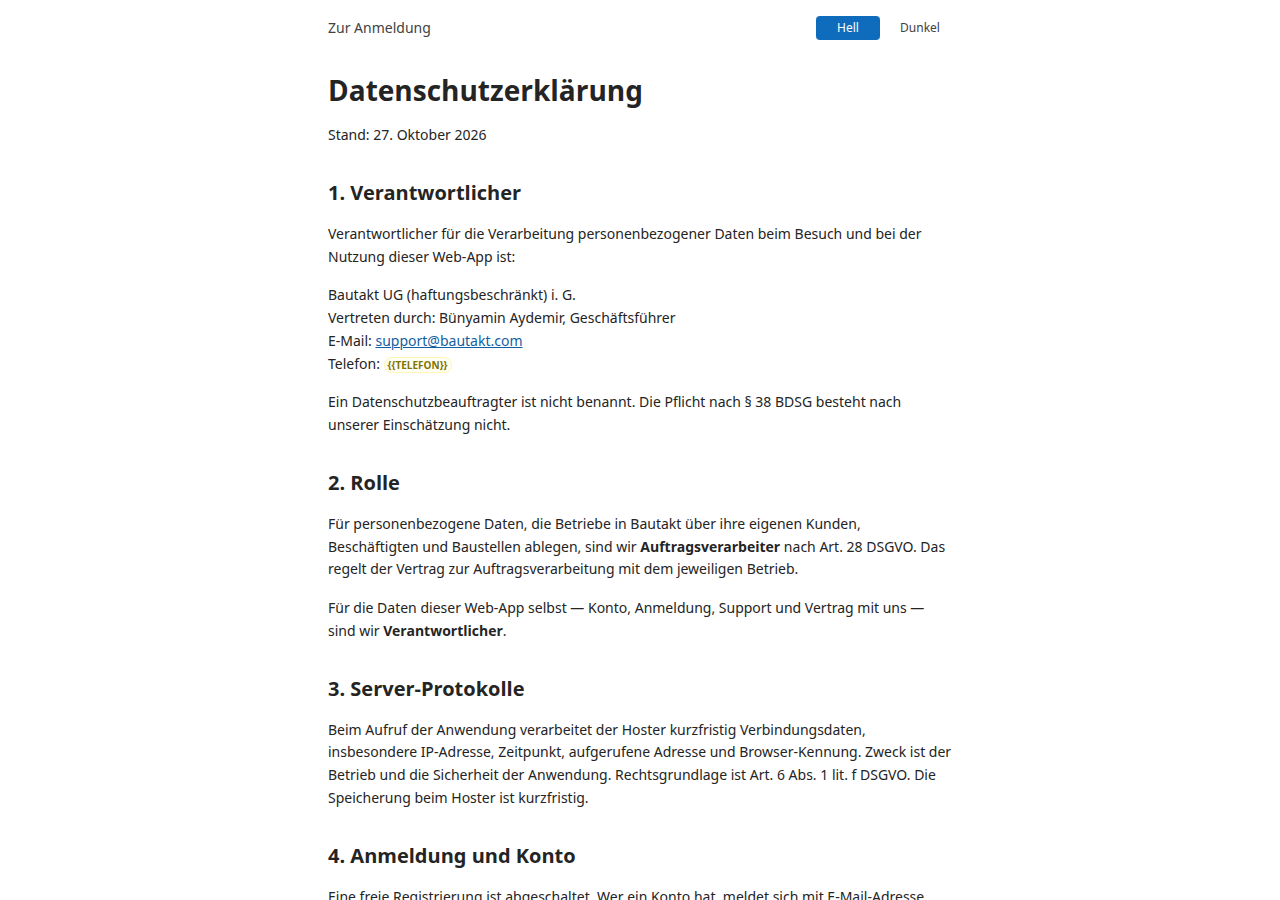
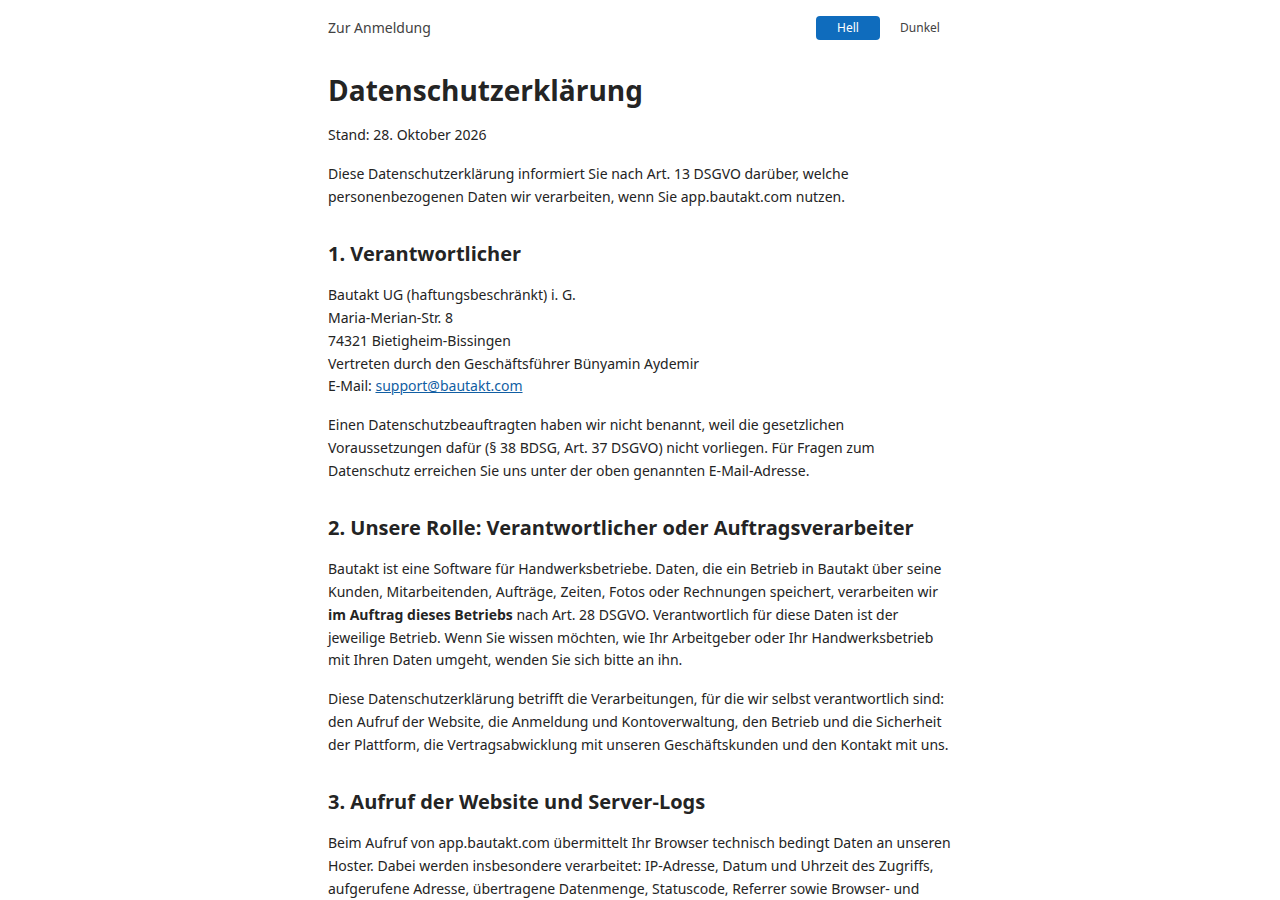
Rechtstexte wörtlich in die Web-App übernehmen
Die gelieferten Markdown-Dateien sind die Quelle. Der App-Inhalt ist
bytegleich, einfache Zeilenumbrüche bleiben sichtbar. {{TELEFON}} bleibt
der offene Platzhalter im Impressum.

Changed region(s): [[0.25, 0.3422, 0.75, 0.9022], [0.25, 0.9333, 0.75, 1.0], [0.25, 0.1867, 0.7188, 0.3111]]

diff --git a/apps/webapp/src/features/legal/legalRoutes.test.tsx b/apps/webapp/src/features/legal/legalRoutes.test.tsx
@@ -85,8 +85,9 @@ describe('Rechtsseiten ohne Sitzung', () => {
     expect(privacy).toContain('Datenschutzerklärung');
     expect(privacy).toContain(MAPS_SENTENCE);
     expect(privacy).toContain('<table');
-    expect(privacy).toContain('{{TELEFON}}');
+    expect(privacy).toContain('<br');
     expect(privacy).not.toContain('{{ANSCHRIFT}}');
+    expect(privacy).not.toContain('{{TELEFON}}');
     expect(privacy).not.toContain('Melde dich mit deinem Bautakt-Konto');
   });
 

diff --git a/apps/webapp/src/content/legal/datenschutz.md b/apps/webapp/src/content/legal/datenschutz.md
@@ -1,88 +1,105 @@
 # Datenschutzerklärung
 
-Stand: 27. Oktober 2026
+Stand: 28. Oktober 2026
+
+Diese Datenschutzerklärung informiert Sie nach Art. 13 DSGVO darüber, welche personenbezogenen Daten wir verarbeiten, wenn Sie app.bautakt.com nutzen.
 
 ## 1. Verantwortlicher
 
-Verantwortlicher für die Verarbeitung personenbezogener Daten beim Besuch und bei der Nutzung dieser Web-App ist:
-
 Bautakt UG (haftungsbeschränkt) i. G.
-Vertreten durch: Bünyamin Aydemir, Geschäftsführer
+Maria-Merian-Str. 8
+74321 Bietigheim-Bissingen
+Vertreten durch den Geschäftsführer Bünyamin Aydemir
 E-Mail: [support@bautakt.com](mailto:support@bautakt.com)
-Telefon: {{TELEFON}}
 
-Ein Datenschutzbeauftragter ist nicht benannt. Die Pflicht nach § 38 BDSG besteht nach unserer Einschätzung nicht.
+Einen Datenschutzbeauftragten haben wir nicht benannt, weil die gesetzlichen Voraussetzungen dafür (§ 38 BDSG, Art. 37 DSGVO) nicht vorliegen. Für Fragen zum Datenschutz erreichen Sie uns unter der oben genannten E-Mail-Adresse.
 
-## 2. Rolle
+## 2. Unsere Rolle: Verantwortlicher oder Auftragsverarbeiter
 
-Für personenbezogene Daten, die Betriebe in Bautakt über ihre eigenen Kunden, Beschäftigten und Baustellen ablegen, sind wir **Auftragsverarbeiter** nach Art. 28 DSGVO. Das regelt der Vertrag zur Auftragsverarbeitung mit dem jeweiligen Betrieb.
+Bautakt ist eine Software für Handwerksbetriebe. Daten, die ein Betrieb in Bautakt über seine Kunden, Mitarbeitenden, Aufträge, Zeiten, Fotos oder Rechnungen speichert, verarbeiten wir **im Auftrag dieses Betriebs** nach Art. 28 DSGVO. Verantwortlich für diese Daten ist der jeweilige Betrieb. Wenn Sie wissen möchten, wie Ihr Arbeitgeber oder Ihr Handwerksbetrieb mit Ihren Daten umgeht, wenden Sie sich bitte an ihn.
 
-Für die Daten dieser Web-App selbst — Konto, Anmeldung, Support und Vertrag mit uns — sind wir **Verantwortlicher**.
+Diese Datenschutzerklärung betrifft die Verarbeitungen, für die wir selbst verantwortlich sind: den Aufruf der Website, die Anmeldung und Kontoverwaltung, den Betrieb und die Sicherheit der Plattform, die Vertragsabwicklung mit unseren Geschäftskunden und den Kontakt mit uns.
 
-## 3. Server-Protokolle
+## 3. Aufruf der Website und Server-Logs
 
-Beim Aufruf der Anwendung verarbeitet der Hoster kurzfristig Verbindungsdaten, insbesondere IP-Adresse, Zeitpunkt, aufgerufene Adresse und Browser-Kennung. Zweck ist der Betrieb und die Sicherheit der Anwendung. Rechtsgrundlage ist Art. 6 Abs. 1 lit. f DSGVO. Die Speicherung beim Hoster ist kurzfristig.
+Beim Aufruf von app.bautakt.com übermittelt Ihr Browser technisch bedingt Daten an unseren Hoster. Dabei werden insbesondere verarbeitet: IP-Adresse, Datum und Uhrzeit des Zugriffs, aufgerufene Adresse, übertragene Datenmenge, Statuscode, Referrer sowie Browser- und Betriebssystemangaben.
 
-## 4. Anmeldung und Konto
+- **Zweck:** Auslieferung der Website, Stabilität, Fehleranalyse und Abwehr von Angriffen.
+- **Rechtsgrundlage:** Art. 6 Abs. 1 lit. f DSGVO. Unser berechtigtes Interesse ist der sichere und fehlerfreie Betrieb.
+- **Speicherdauer:** Die Protokolle werden beim Hoster nur kurzfristig gespeichert und danach automatisch gelöscht. Werden sie zur Aufklärung eines Sicherheitsvorfalls benötigt, bewahren wir sie bis zu dessen Abschluss auf.
 
-Eine freie Registrierung ist abgeschaltet. Wer ein Konto hat, meldet sich mit E-Mail-Adresse und Passwort an. Zweck ist die Kontoführung. Rechtsgrundlage ist Art. 6 Abs. 1 lit. b DSGVO, soweit der Zugang zum Vertrag nötig ist, sonst Art. 6 Abs. 1 lit. f DSGVO. Die Daten bleiben für die Dauer des Kontos gespeichert.
+## 4. Anmeldung und Benutzerkonto
 
-Die Sitzung liegt im **lokalen Speicher** des Browsers (localStorage), nicht in einem Cookie.
+Ein Benutzerkonto wird von Ihrem Betrieb oder von uns im Auftrag Ihres Betriebs angelegt; eine freie Registrierung gibt es nicht. Für die Anmeldung verarbeiten wir Ihre E-Mail-Adresse, Ihr Passwort (nur als verschlüsselter Hashwert), Ihren Namen, Ihre Rolle und Berechtigungen im Betrieb sowie Anmeldezeitpunkte und sicherheitsrelevante Ereignisse (zum Beispiel fehlgeschlagene Anmeldungen, Passwort-Zurücksetzungen).
 
-## 5. Transaktionsmails
+- **Zweck:** Bereitstellung des Zugangs, Zuordnung zum richtigen Betrieb, Schutz vor unbefugtem Zugriff.
+- **Rechtsgrundlage:** Art. 6 Abs. 1 lit. b DSGVO, soweit Sie selbst unser Vertragspartner sind; im Übrigen Art. 6 Abs. 1 lit. f DSGVO (Interesse an einem sicheren Zugang zur vertraglich geschuldeten Software). Für die Daten, die Ihr Betrieb über Sie in Bautakt verarbeitet, gilt Abschnitt 2.
+- **Speicherdauer:** Für die Dauer des Kontos. Nach Löschung des Kontos oder Ende des Vertrags mit Ihrem Betrieb werden die Daten gelöscht, soweit keine gesetzlichen Aufbewahrungspflichten entgegenstehen.
 
-E-Mails zum Konto und zum Versand von Belegen gehen über **Lettermint B.V.** (Niederlande). Es ist kein Tracking eingebaut. Inhalte werden 28 Tage, Ereignisse 90 Tage gespeichert. Rechtsgrundlage ist Art. 6 Abs. 1 lit. b DSGVO.
+## 5. E-Mails aus der Anwendung
+
+Die Anwendung versendet transaktionale E-Mails, zum Beispiel Einladungen, Links zum Zurücksetzen des Passworts, Bestätigungen sowie im Auftrag Ihres Betriebs Rechnungen und Zahlungserinnerungen. Werbe-E-Mails versenden wir nicht. Dafür verarbeiten wir Empfängeradresse, Absender, Betreff, Inhalt und Anhänge sowie Zustellinformationen (zum Beispiel zugestellt, abgewiesen). Öffnungs- und Klick-Tracking ist deaktiviert.
+
+- **Rechtsgrundlage:** Art. 6 Abs. 1 lit. b DSGVO bzw. bei Versand im Auftrag eines Betriebs Art. 28 DSGVO.
+- **Speicherdauer beim Versanddienst:** Inhalte, Anhänge und Metadaten 28 Tage, Zustellereignisse 90 Tage, danach automatische Löschung.
 
 ## 6. Kontakt per E-Mail
 
-Wenn Sie uns per E-Mail schreiben, verarbeiten wir Ihre Angaben zur Bearbeitung der Anfrage. Rechtsgrundlage ist Art. 6 Abs. 1 lit. b DSGVO, soweit es um einen Vertrag geht, sonst Art. 6 Abs. 1 lit. f DSGVO. Das Support-Postfach liegt bei der IONOS SE.
+Wenn Sie uns per E-Mail schreiben, verarbeiten wir Ihre Angaben (E-Mail-Adresse, Name, Inhalt), um Ihre Anfrage zu beantworten.
 
-## 7. Vertrag und Aufbewahrung
+- **Rechtsgrundlage:** Art. 6 Abs. 1 lit. b DSGVO, wenn die Anfrage einen Vertrag betrifft, sonst Art. 6 Abs. 1 lit. f DSGVO (Interesse an der Beantwortung).
+- **Speicherdauer:** Bis die Anfrage erledigt ist. Geschäftsbriefe bewahren wir nach § 257 HGB und § 147 AO sechs Jahre auf, buchungsrelevante Unterlagen zehn bzw. acht Jahre.
 
-Daten zu Verträgen, Rechnungen und Zahlungen speichern wir, solange handels- und steuerrechtliche Pflichten das verlangen, insbesondere § 147 AO und § 257 HGB. Rechtsgrundlage ist Art. 6 Abs. 1 lit. c DSGVO.
+## 7. Vertragsabwicklung mit Geschäftskunden
 
-## 8. Keine Analyse
+Für Verträge mit Betrieben verarbeiten wir Firmen- und Kontaktdaten der Ansprechpersonen, Vertrags-, Rechnungs- und Zahlungsdaten (Art. 6 Abs. 1 lit. b und lit. c DSGVO). Rechnungen und Buchungsbelege bewahren wir nach § 147 AO und § 257 HGB acht bzw. zehn Jahre auf.
 
-Es gibt **kein** Analyse- oder Marketing-Tracking und kein Reichweiten-Werkzeug. Rechtsgrundlage für die technisch nötige Speicherung im Browser ist § 25 Abs. 2 Nr. 2 TDDDG.
+## 8. Cookies und lokale Speicherung
 
-Neben der Sitzung merkt sich der Browser auf diesem Gerät:
+Wir setzen keine Cookies und keine Analyse-, Tracking- oder Marketing-Dienste ein. Damit Sie angemeldet bleiben, speichert die Anwendung technisch notwendige Sitzungsinformationen (Zugriffs- und Erneuerungstoken) im lokalen Speicher (Local Storage) Ihres Browsers. Diese Speicherung ist für den von Ihnen gewünschten Dienst unbedingt erforderlich und daher nach § 25 Abs. 2 Nr. 2 TDDDG ohne Einwilligung zulässig. Beim Abmelden wird der Eintrag entfernt; das Zugriffstoken läuft zudem nach kurzer Zeit ab und wird während der Nutzung automatisch erneuert.
 
-- die gewählte Darstellung (Hell, Dunkel oder wie das System) im localStorage,
-- ob die Seitenleiste eingeklappt ist, in einem Cookie mit einem Jahr Laufzeit.
+## 9. Empfänger und Dienstleister
 
-Beides ist für die Bedienung nötig und enthält keine Nutzungsprofile.
+Wir setzen folgende Dienstleister als Auftragsverarbeiter nach Art. 28 DSGVO ein. Mit allen bestehen Verträge zur Auftragsverarbeitung.
 
-## 9. Empfänger
+| Dienstleister | Zweck | Verarbeitungsort |
+|---|---|---|
+| Vercel Inc., 440 N Barranca Ave #4133, Covina, CA 91723, USA | Hosting und Auslieferung der Web-Anwendung, Server-Logs | Weltweites Netzwerk, Auslieferung über Server in der EU möglich |
+| Supabase Pte. Ltd., 65 Chulia Street #38-02/03, OCBC Centre, Singapore 049513 | Datenbank, Dateispeicher, Anmeldung | Rechenzentrum in Frankfurt am Main (AWS eu-central-1) |
+| Lettermint B.V., Willemsvaart 16 B, 8019 AB Zwolle, Niederlande | Versand transaktionaler E-Mails | EU |
+| IONOS SE, Elgendorfer Str. 57, 56410 Montabaur | E-Mail-Postfach für Support und Kontakt | Deutschland |
 
-Wir geben Daten an die folgenden Dienstleister weiter, soweit das für den jeweiligen Zweck nötig ist.
+**Übermittlung in Drittländer:** Vercel (USA) und Supabase (Singapur) haben ihren Sitz außerhalb der EU; ein Zugriff aus diesen Ländern, auch aus den USA, ist nicht auszuschließen. Vercel ist nach dem EU-U.S. Data Privacy Framework zertifiziert; die Übermittlung stützt sich auf den Angemessenheitsbeschluss der EU-Kommission (Art. 45 DSGVO) und ergänzend auf die EU-Standardvertragsklauseln. Mit Supabase sind die EU-Standardvertragsklauseln (Art. 46 Abs. 2 lit. c DSGVO) vereinbart. Eine Kopie der Garantien erhalten Sie auf Anfrage unter der oben genannten E-Mail-Adresse.
 
-| Dienstleister | Sitz | Zweck | Garantie |
-| --- | --- | --- | --- |
-| Vercel Inc. | USA | Hosting der Web-App | DPF und Standardvertragsklauseln |
-| Supabase Pte. Ltd. | Singapur, Server in Frankfurt (eu-central-1) | Datenbank, Anmeldung, Dateien | Standardvertragsklauseln |
-| Lettermint B.V. | Niederlande | Transaktionsmails | Verarbeitung in der EU |
-| IONOS SE | Deutschland | Support-Postfach | Verarbeitung in der EU |
+Darüber hinaus geben wir Daten nur weiter, wenn wir gesetzlich dazu verpflichtet sind (zum Beispiel an Behörden) oder es zur Rechtsverfolgung erforderlich ist.
 
-### Links zu Google Maps
-
-Über den Link „Maps“ beim Einsatzort im Einsatzplan können Sie eine Adresse in Google Maps öffnen. Dabei verlassen Sie die Anwendung. Wir betten keine Karte ein und laden kein Skript von Google. Google verarbeitet die Adresse nach seinen eigenen Bestimmungen.
+**Links zu Google Maps:** Über den Link „Maps“ beim Einsatzort im Einsatzplan können Sie eine Adresse in Google Maps öffnen. Eine Karte ist nicht eingebettet; Daten werden erst übertragen, wenn Sie den Link anklicken. Google Maps öffnet sich dann in einem neuen Tab, und dabei gelangen die Adresse und Ihre Verbindungsdaten an Google Ireland Limited, Gordon House, Barrow Street, Dublin 4, Irland. Für die Verarbeitung dort ist Google verantwortlich; es gilt dessen Datenschutzerklärung: https://policies.google.com/privacy
 
 ## 10. Pflicht zur Bereitstellung
 
-Ohne E-Mail-Adresse und Passwort können Sie sich nicht anmelden. Eine Pflicht, die Web-App zu nutzen, besteht nicht. Eine automatisierte Entscheidung im Sinne von Art. 22 DSGVO findet nicht statt.
+Ohne E-Mail-Adresse und Passwort ist eine Anmeldung nicht möglich. Ohne die technisch übermittelten Verbindungsdaten kann die Website nicht angezeigt werden. Eine automatisierte Entscheidungsfindung einschließlich Profiling nach Art. 22 DSGVO findet nicht statt.
 
 ## 11. Ihre Rechte
 
-Sie haben das Recht auf Auskunft, Berichtigung, Löschung, Einschränkung der Verarbeitung und Datenübertragbarkeit (Art. 15 bis 20 DSGVO). Soweit wir auf Art. 6 Abs. 1 lit. f DSGVO stützen, können Sie widersprechen (Art. 21 DSGVO).
+Sie haben gegenüber uns folgende Rechte hinsichtlich Ihrer personenbezogenen Daten:
 
-## 12. Beschwerde
+- Auskunft (Art. 15 DSGVO)
+- Berichtigung (Art. 16 DSGVO)
+- Löschung (Art. 17 DSGVO)
+- Einschränkung der Verarbeitung (Art. 18 DSGVO)
+- Datenübertragbarkeit (Art. 20 DSGVO)
+- **Widerspruch (Art. 21 DSGVO):** Soweit wir Daten auf Grundlage von Art. 6 Abs. 1 lit. f DSGVO verarbeiten, können Sie aus Gründen, die sich aus Ihrer besonderen Situation ergeben, jederzeit widersprechen.
 
-Sie können sich bei einer Datenschutz-Aufsichtsbehörde beschweren (Art. 77 DSGVO). Zuständig ist die Behörde des Landes, in dem wir unseren Sitz haben.
+Wenden Sie sich dazu an [support@bautakt.com](mailto:support@bautakt.com). Betrifft Ihr Anliegen Daten, die ein Betrieb in Bautakt verarbeitet, leiten wir es an diesen Betrieb weiter und unterstützen ihn bei der Beantwortung.
+
+## 12. Beschwerderecht
+
+Sie haben das Recht, sich bei einer Datenschutz-Aufsichtsbehörde zu beschweren (Art. 77 DSGVO), insbesondere in dem Mitgliedstaat Ihres Aufenthaltsorts, Ihres Arbeitsplatzes oder des Orts des mutmaßlichen Verstoßes.
 
 ## 13. Datensicherheit
 
-Wir treffen technische und organisatorische Maßnahmen, die dem Risiko angemessen sind, insbesondere Zugriffsschutz und Verschlüsselung der Übertragung.
+Die Verbindung zu app.bautakt.com ist per TLS verschlüsselt. Wir schützen Daten durch Zugriffsbeschränkungen auf Datenbankebene, eine Trennung der Daten der einzelnen Betriebe und weitere technische und organisatorische Maßnahmen nach Art. 32 DSGVO.
 
 ## 14. Änderungen
 
-Wir passen diese Erklärung an, wenn sich die Verarbeitung ändert. Es gilt die jeweils veröffentlichte Fassung.
+Wir passen diese Datenschutzerklärung an, wenn sich die Anwendung oder die Rechtslage ändert. Es gilt die jeweils hier veröffentlichte Fassung.

diff --git a/wiki/logs/2026-10-27-rechtsseiten-webapp.md b/wiki/logs/2026-10-27-rechtsseiten-webapp.md
@@ -23,10 +23,8 @@ Datenschutz.
 Die Marketing-App ist unverändert. `apps/webapp/vercel.json` hatte den
 Catch-all schon.
 
-Die Dateien `uploads/impressum.md` und `uploads/datenschutz.md` lagen in der
-Umgebung nicht vor. Die Straßen- und PLZ-Zeilen daraus stehen deshalb nicht
-in den Markdown-Dateien. Offen im Quelltext ist `{{TELEFON}}`. Die Anschrift
-wird hier nicht wiedergegeben.
+Der Wortlaut der beiden Markdown-Dateien ist 1:1 der gelieferte Text.
+`{{TELEFON}}` bleibt der offene Platzhalter im Impressum.
 
 ## Warum
 

diff --git a/apps/webapp/src/content/legal/impressum.md b/apps/webapp/src/content/legal/impressum.md
@@ -3,9 +3,17 @@
 ## Angaben gemäß § 5 DDG
 
 Bautakt UG (haftungsbeschränkt) i. G.
-Vertreten durch: Bünyamin Aydemir, Geschäftsführer
-E-Mail: [support@bautakt.com](mailto:support@bautakt.com)
+Maria-Merian-Str. 8
+74321 Bietigheim-Bissingen
+
+## Vertreten durch
+
+Bünyamin Aydemir, Geschäftsführer
+
+## Kontakt
+
 Telefon: {{TELEFON}}
+E-Mail: [support@bautakt.com](mailto:support@bautakt.com)
 
 ## Registereintrag
 
